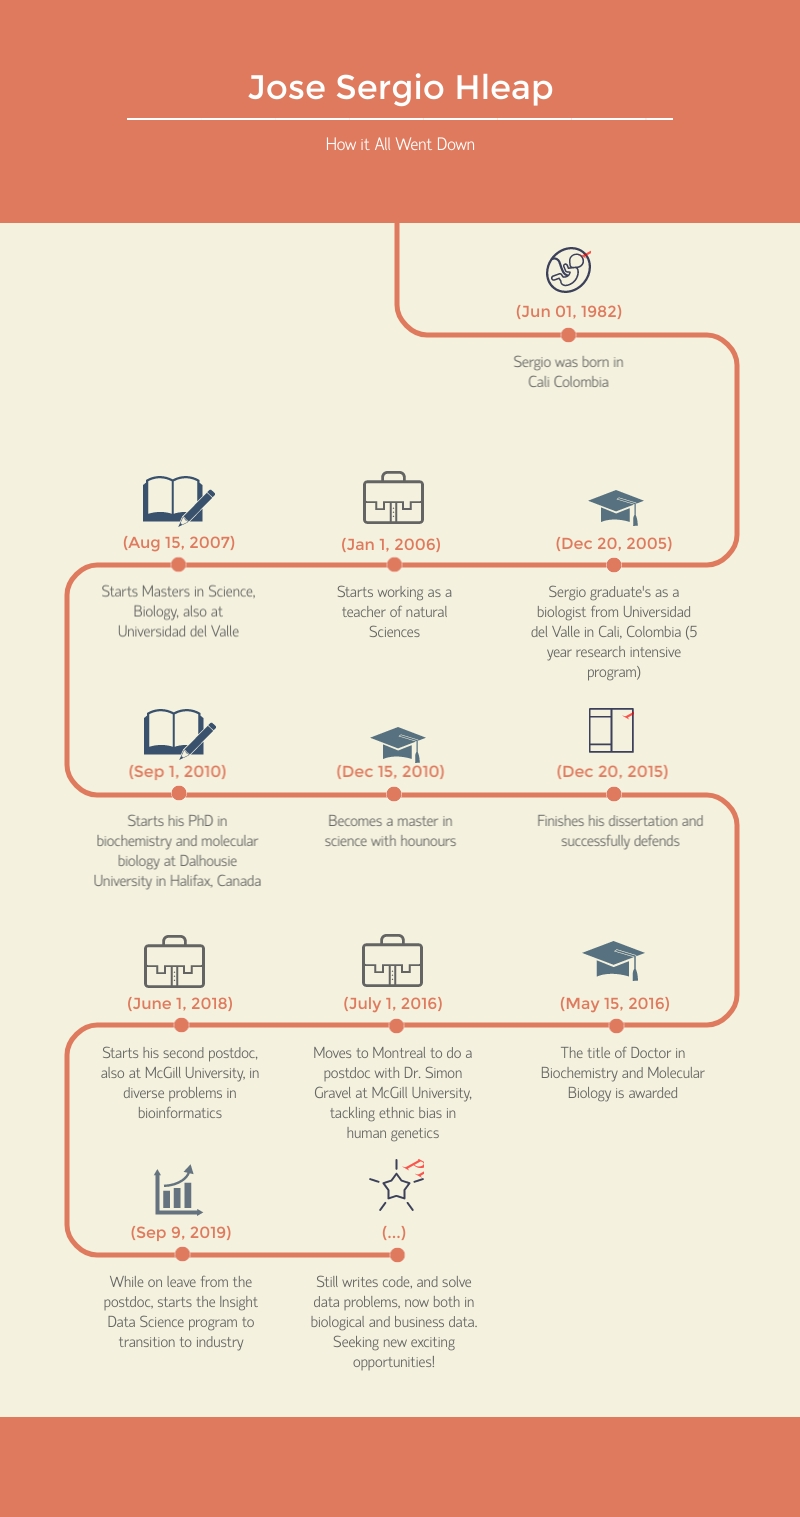
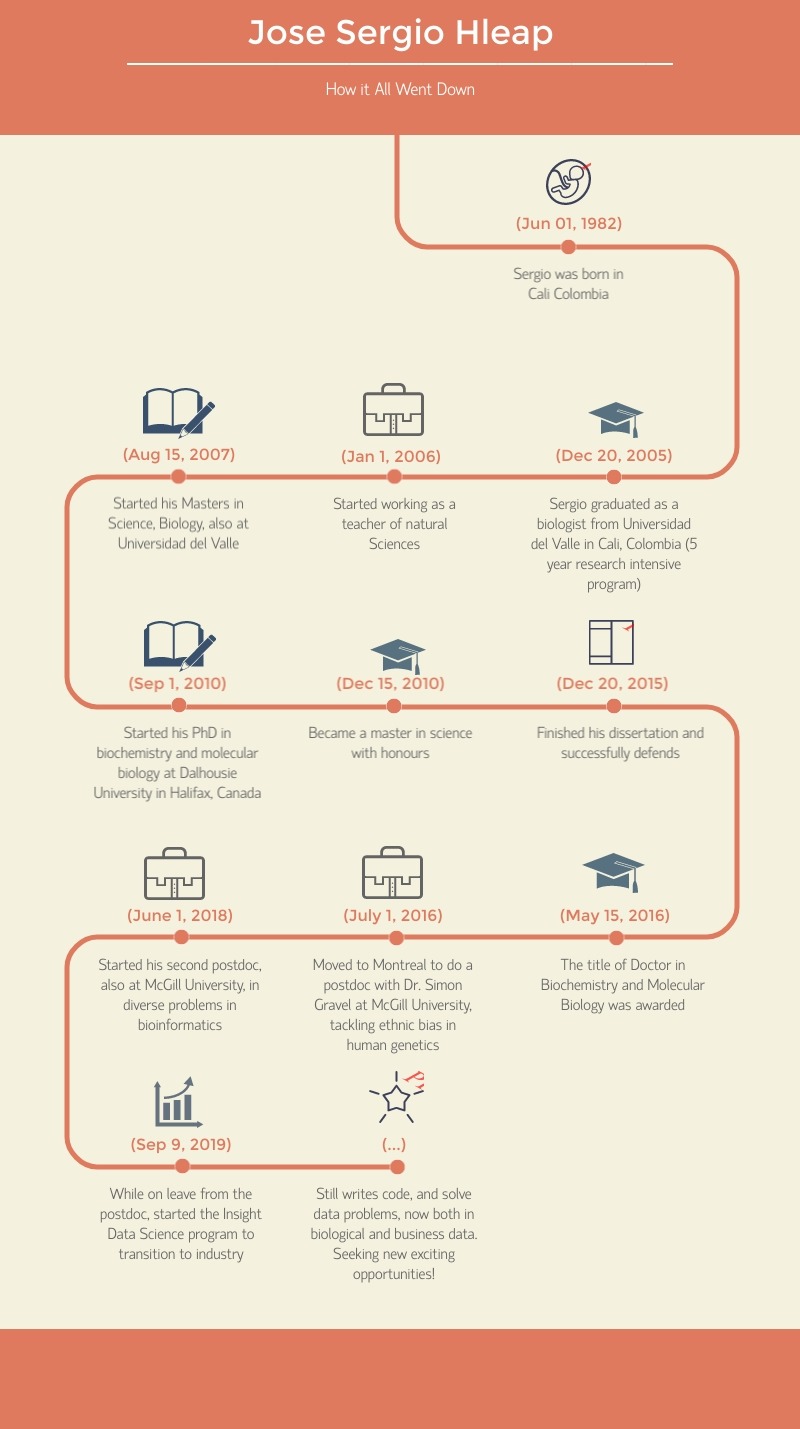
Update of about slide including the timeline

Changed region(s): [[0.0, 0.0, 1.0, 0.9545]]

diff --git a/_pages/About.md b/_pages/About.md
@@ -17,5 +17,5 @@ research team. An effective communicator of scientific
 concepts to a wide audience.
 
 # My Timeline
-{% raw %}<img src="{{ site.url }}{{ site.baseurl }}/assets/images/filename.jpg" alt="" class="full">{% endraw %}
+<img src="../assets/images/My-timeline.jpg">
 
